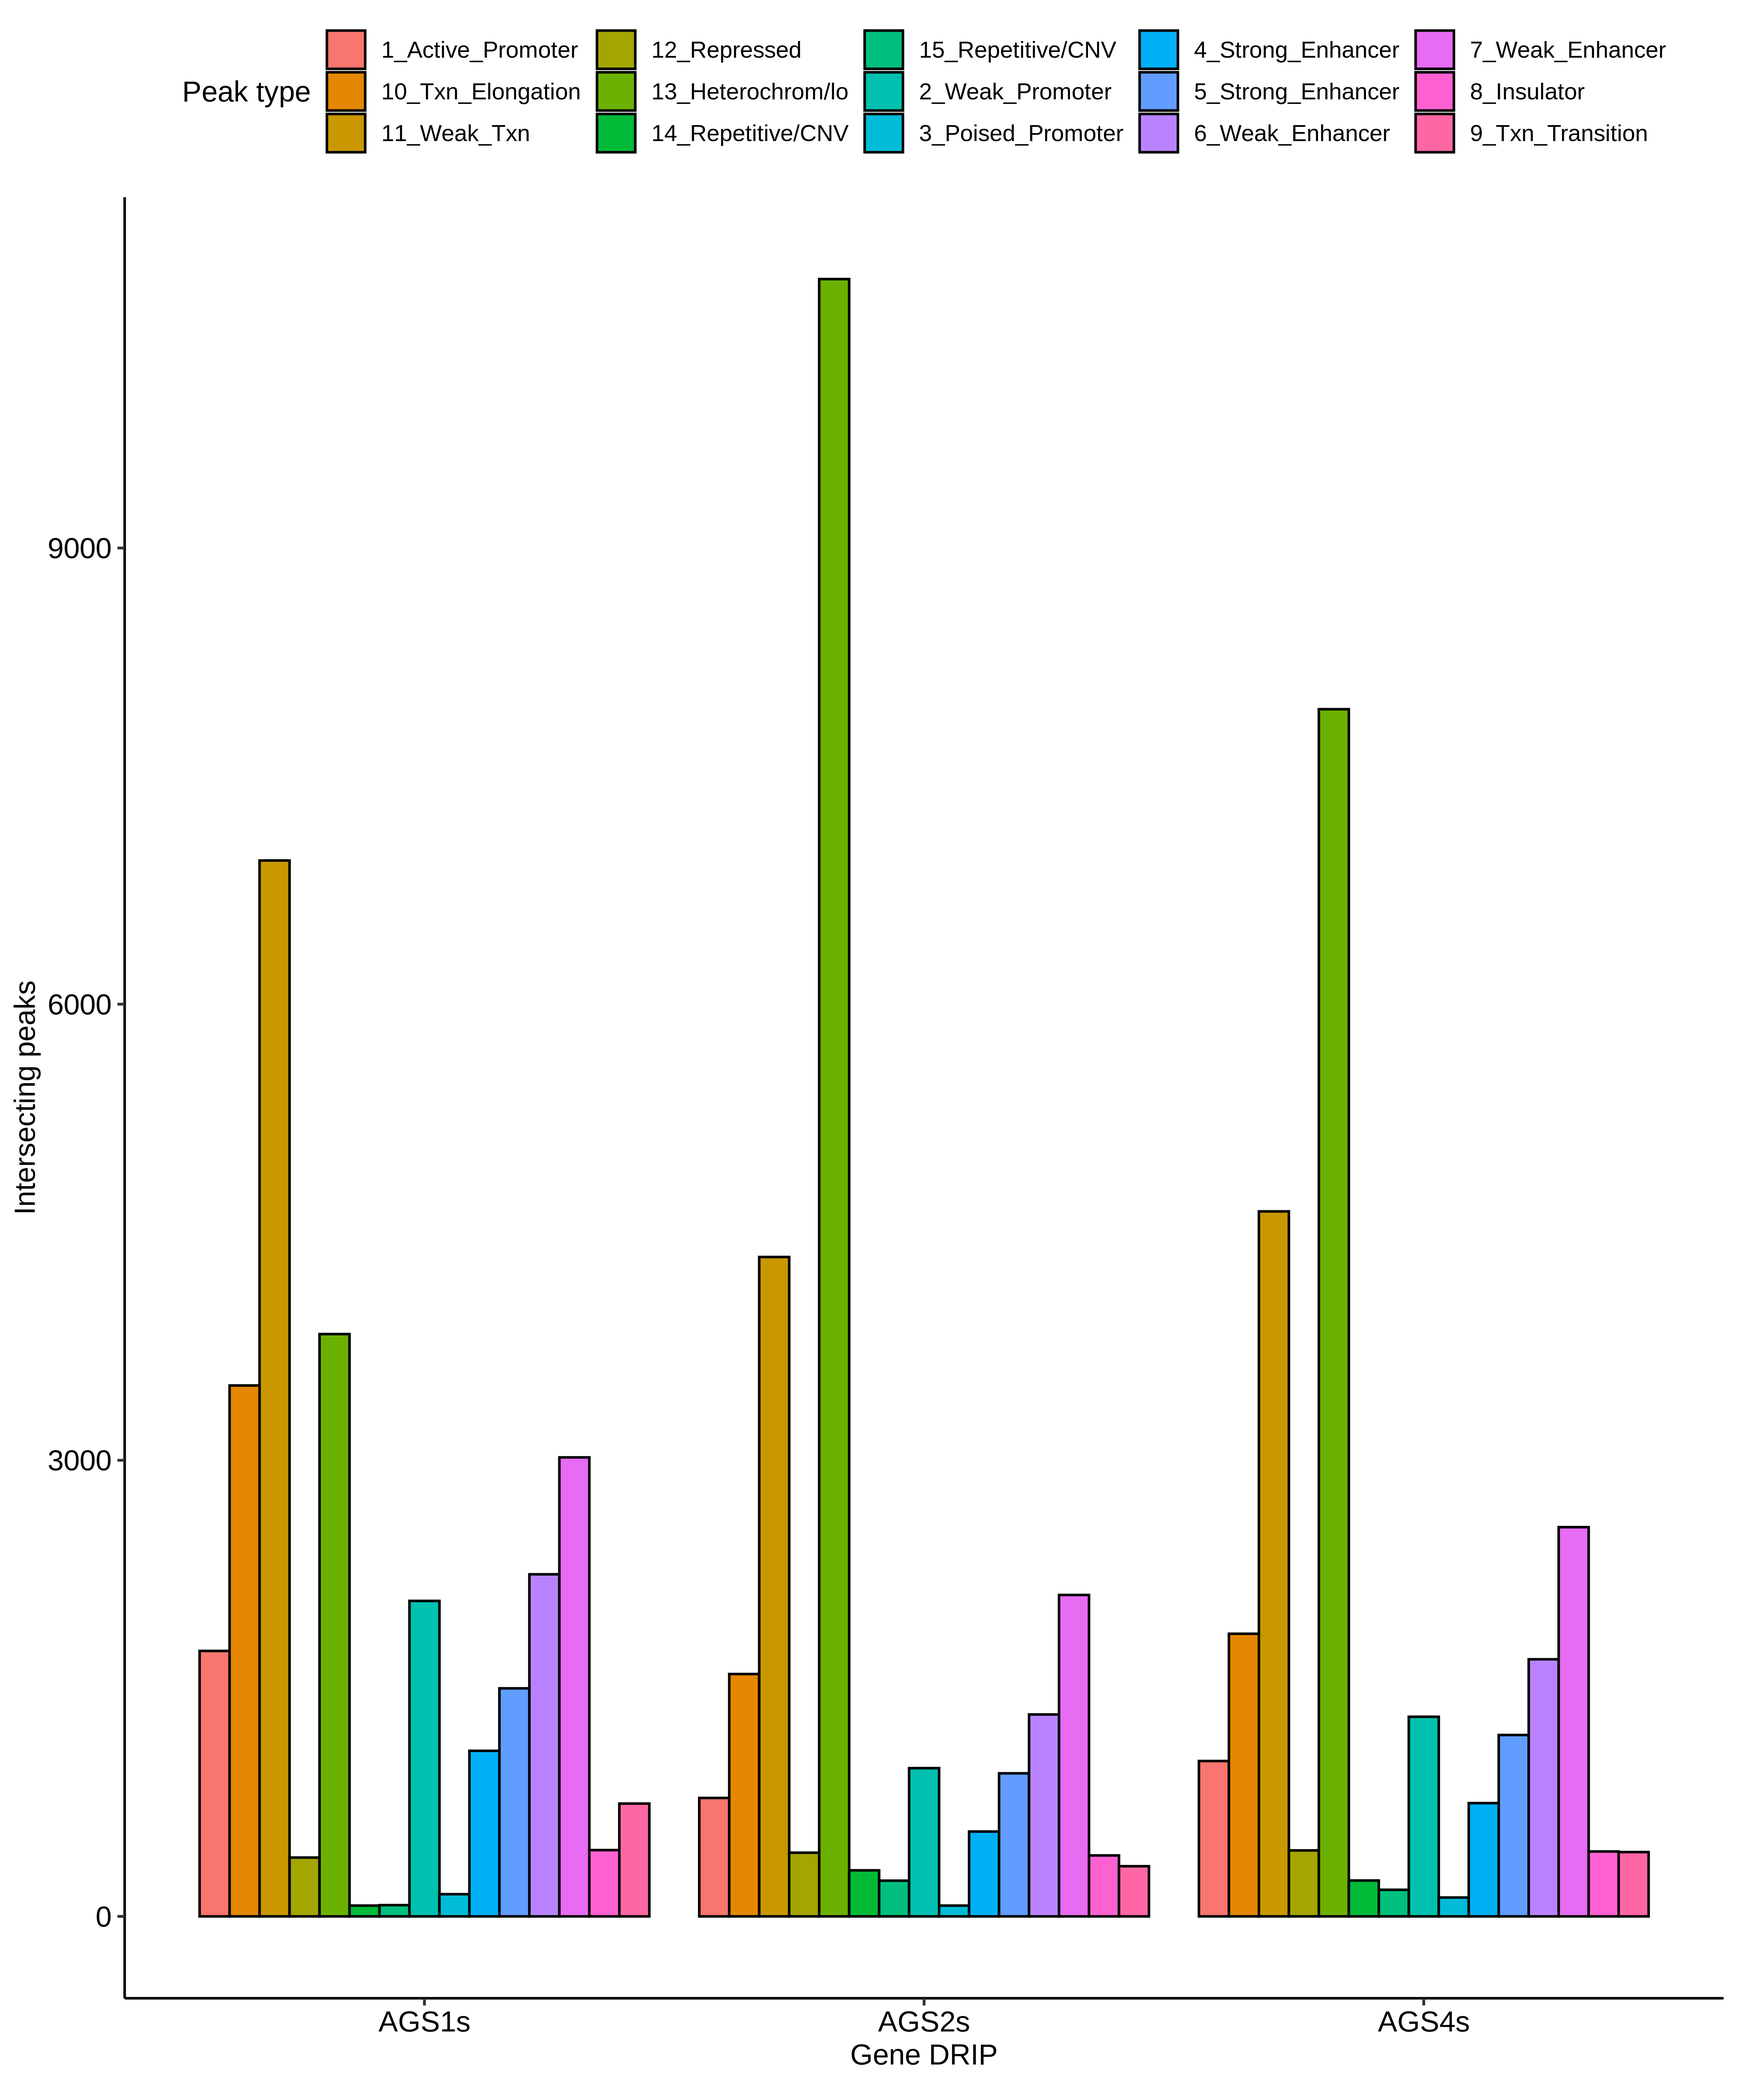
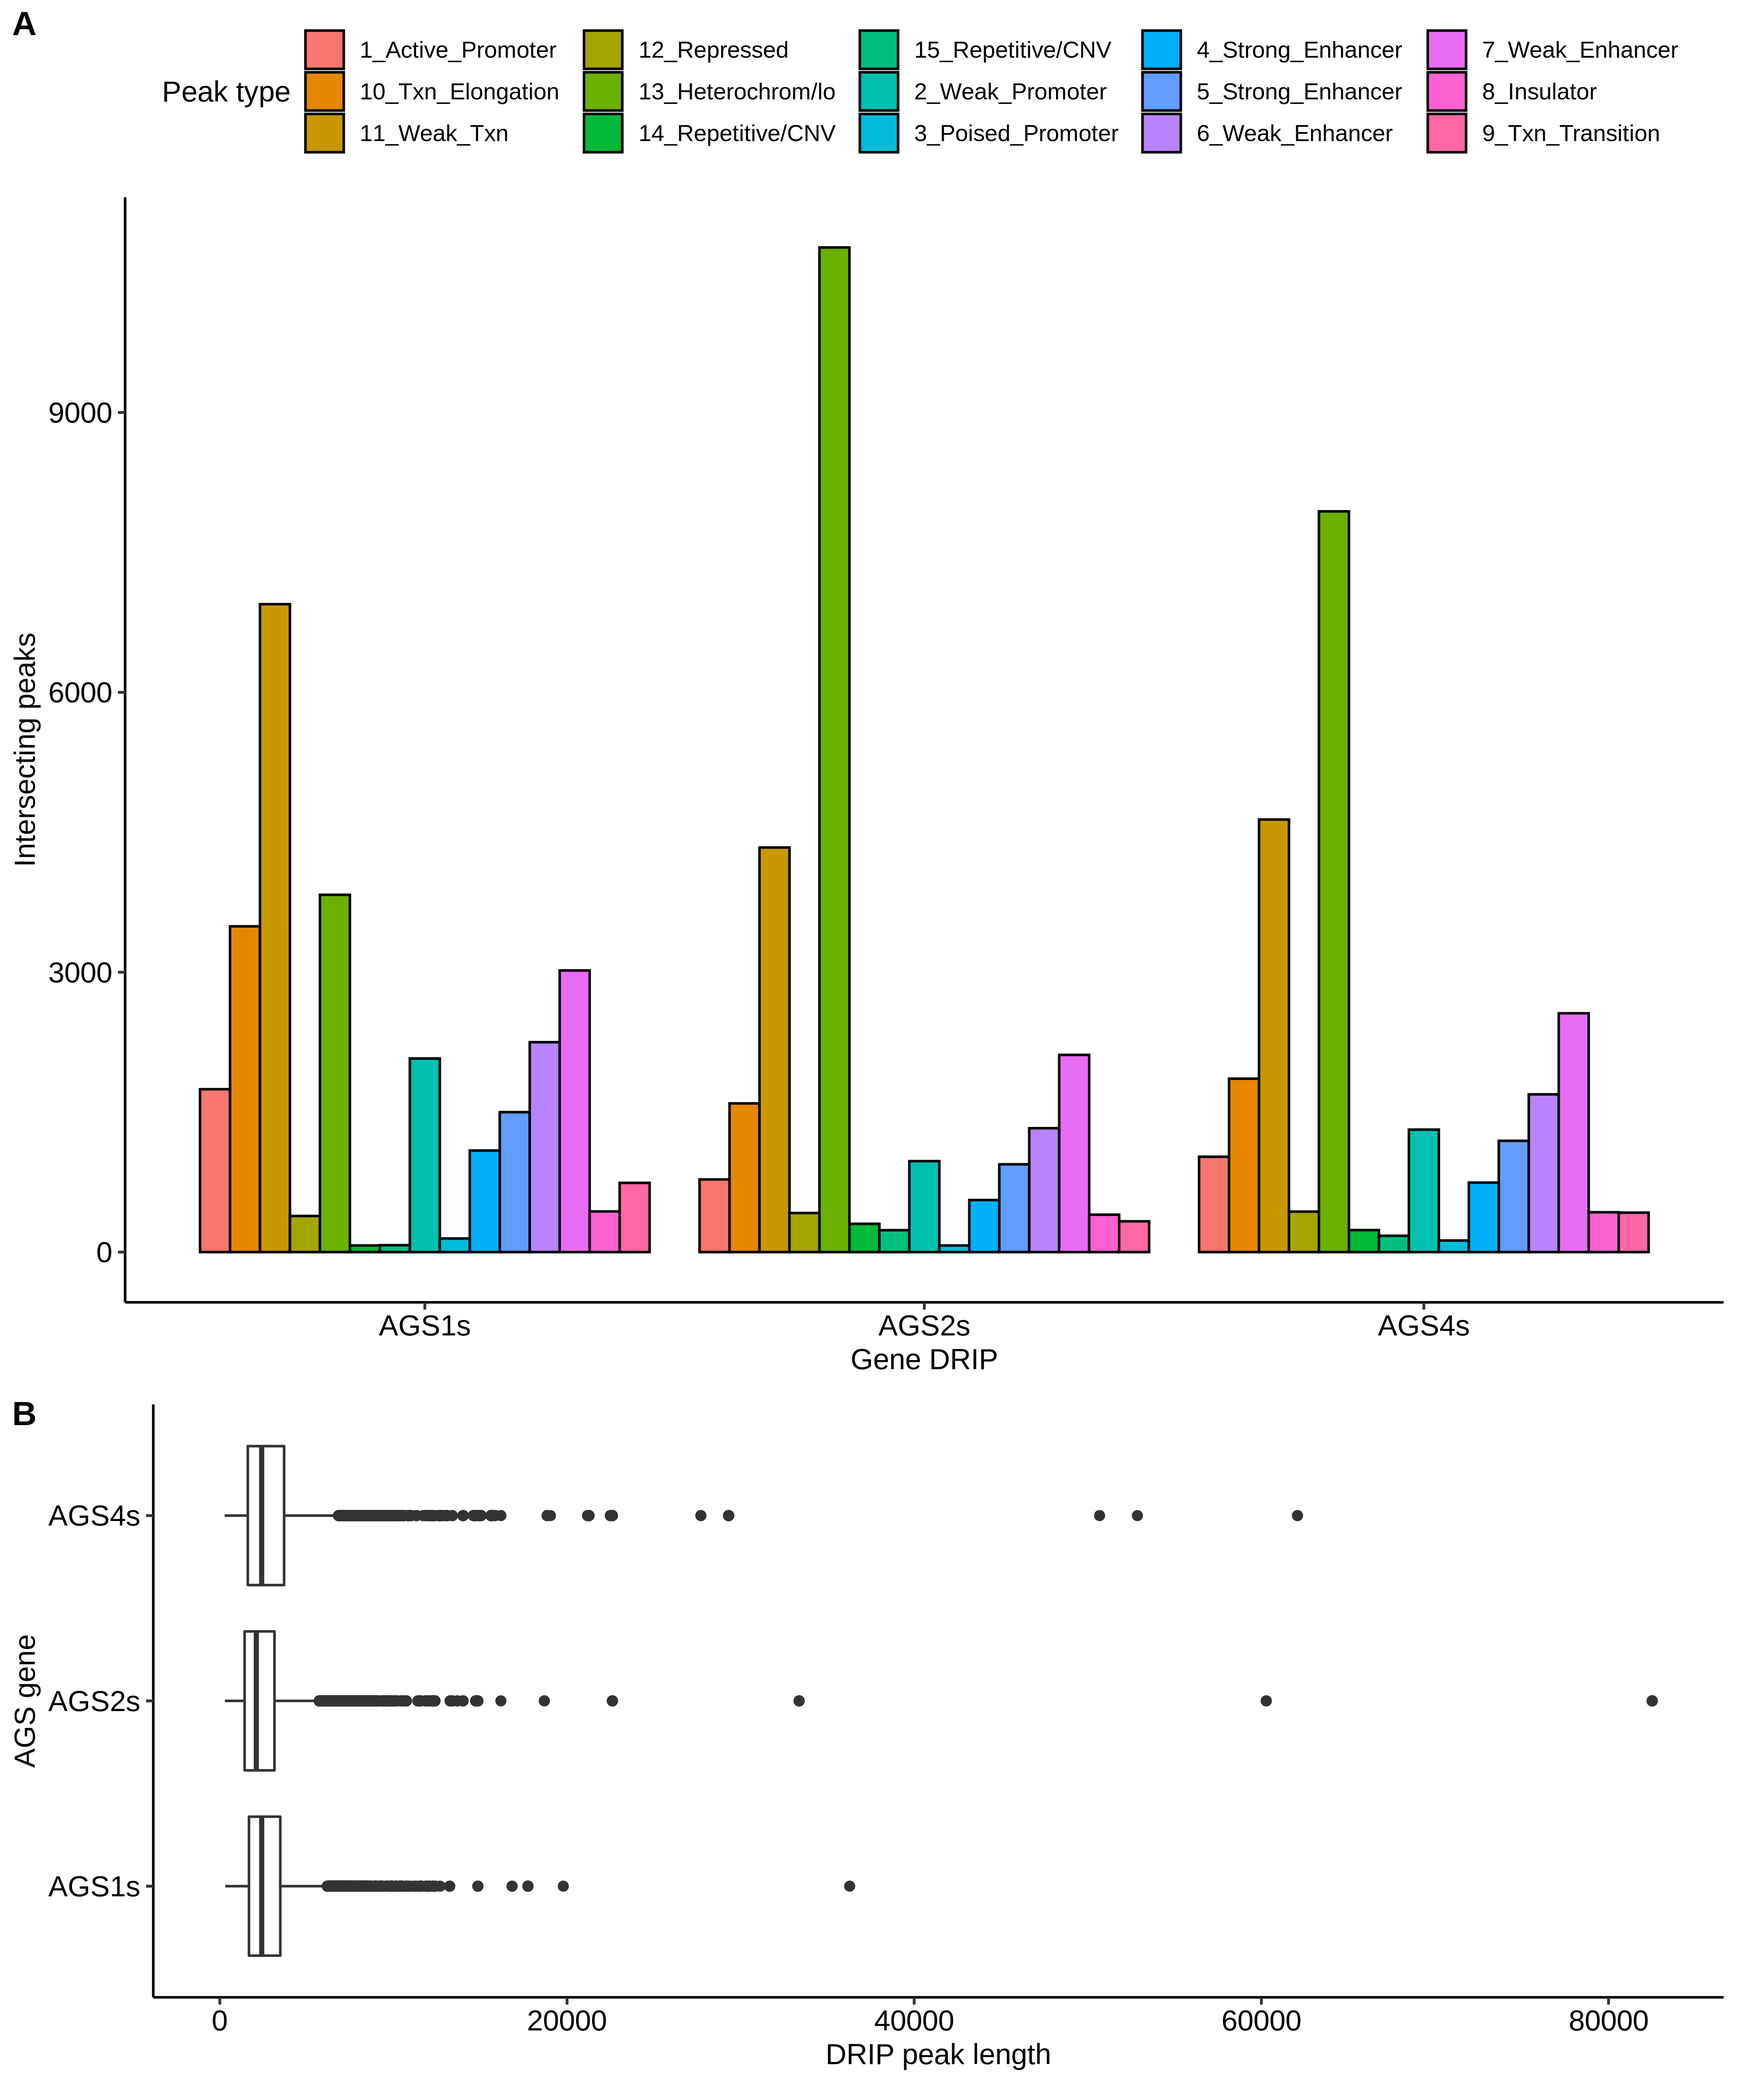
update main plot with DRIP peak length boxplot

diff --git a/README.md b/README.md
@@ -13,3 +13,5 @@ Looks like when they said inter-genic they meant it.
 
 I would like to look at GRO-seq data and map reads from (*Lim et al*) at some
 point to see if there is overlapping reads in inter-genic regions.
+
+However the resolution of the DRIP data is low.
